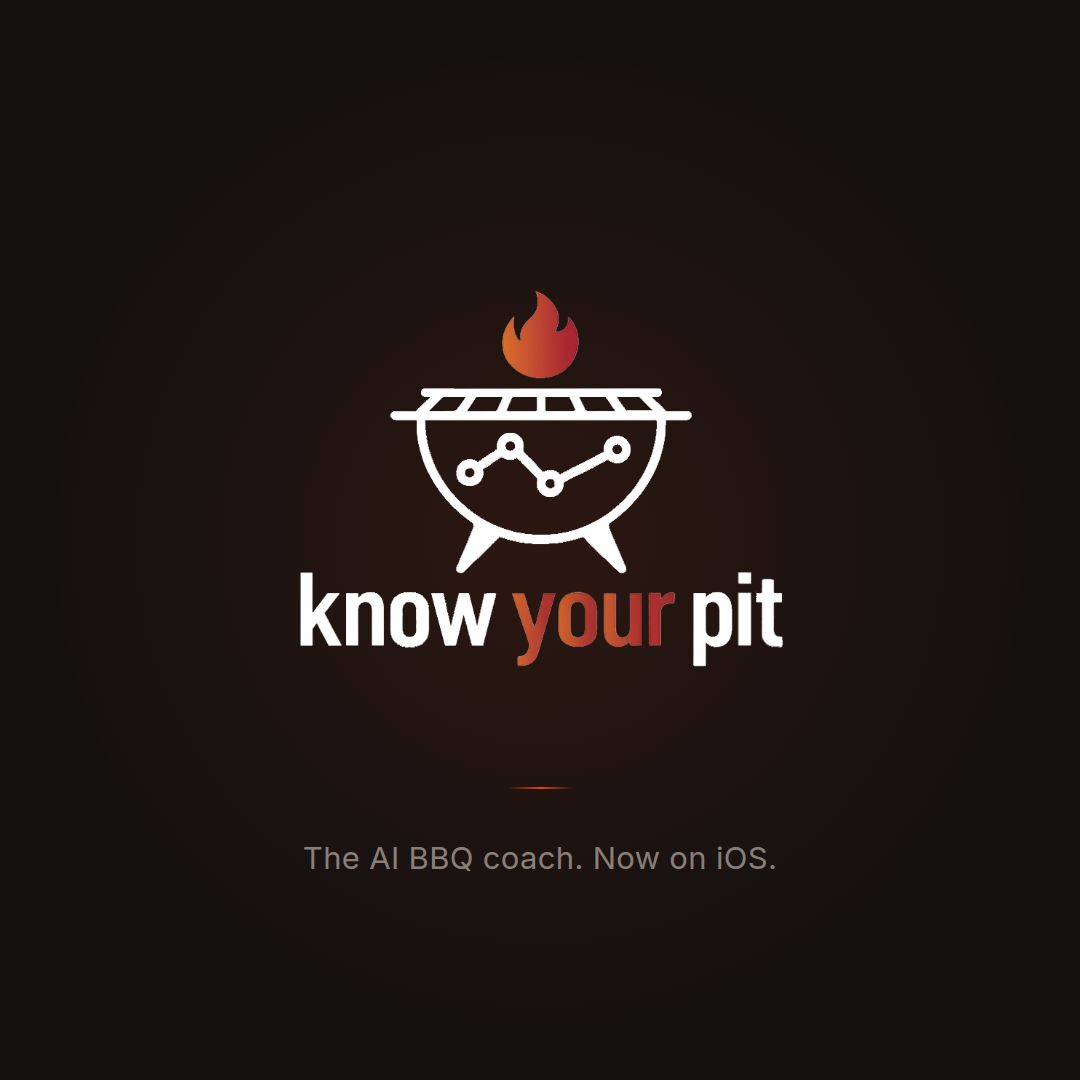
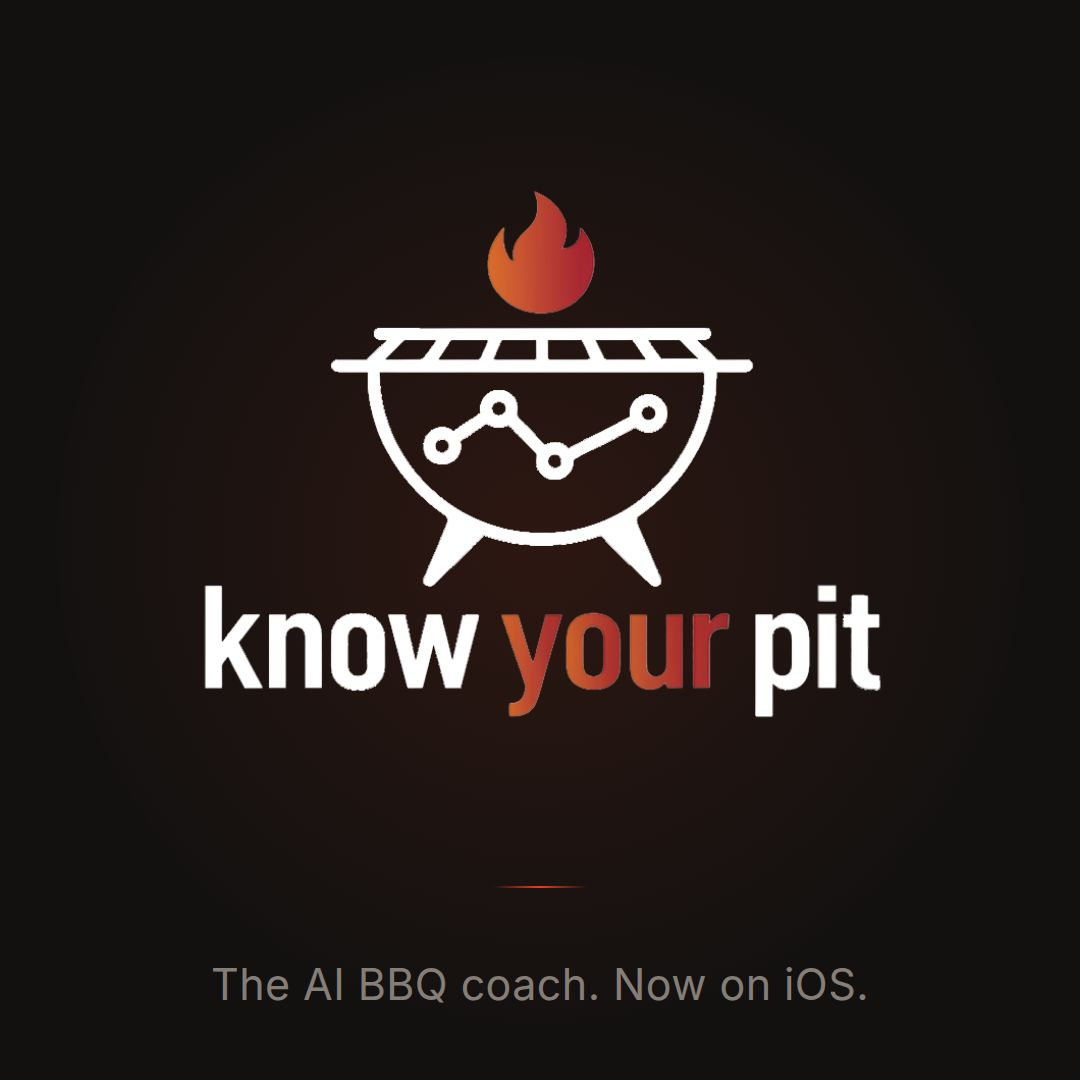
Update card branding assets and metadata
Replit-Commit-Author: Agent

diff --git a/artifacts/marketing/public/social/card-brand.html b/artifacts/marketing/public/social/card-brand.html
@@ -16,15 +16,15 @@
   }
   .content {
     position: relative; z-index: 1;
-    display: flex; flex-direction: column; align-items: center; gap: 50px;
+    display: flex; flex-direction: column; align-items: center; gap: 70px;
   }
-  .logo { width: 532px; object-fit: contain; }
+  .logo { width: 745px; object-fit: contain; }
   .tagline {
-    font-size: 31px; font-weight: 400; letter-spacing: 0.01em;
+    font-size: 43px; font-weight: 400; letter-spacing: 0.01em;
     color: rgba(232,223,212,0.55);
   }
   .divider {
-    width: 67px; height: 2px;
+    width: 94px; height: 2px;
     background: linear-gradient(90deg, transparent, #E8401C, transparent);
     margin: 0 auto;
   }
